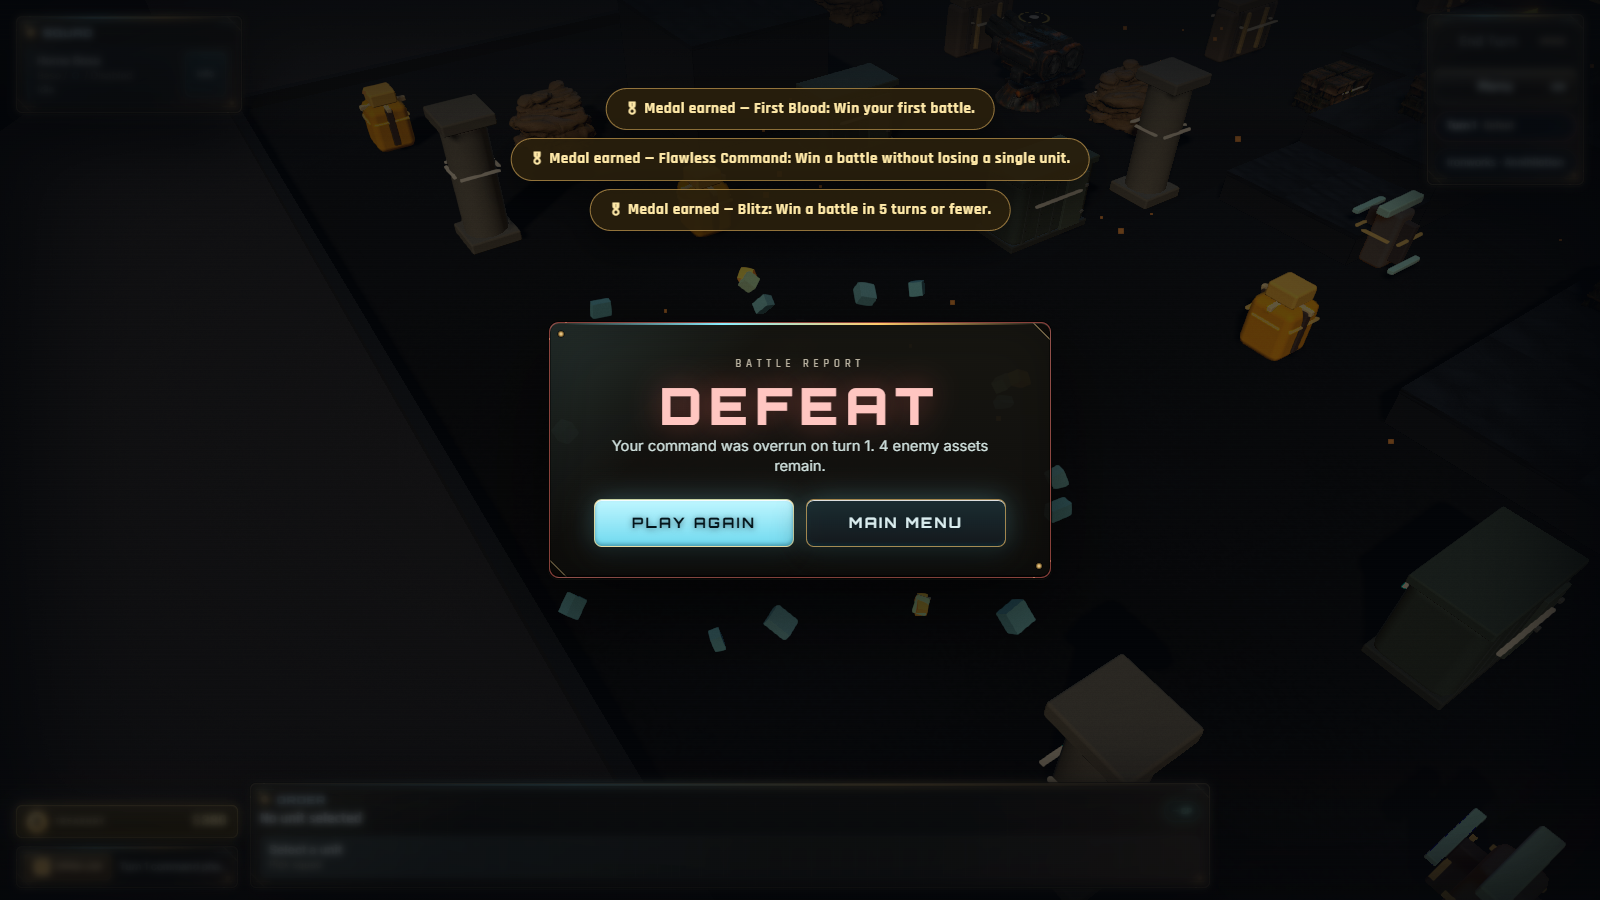
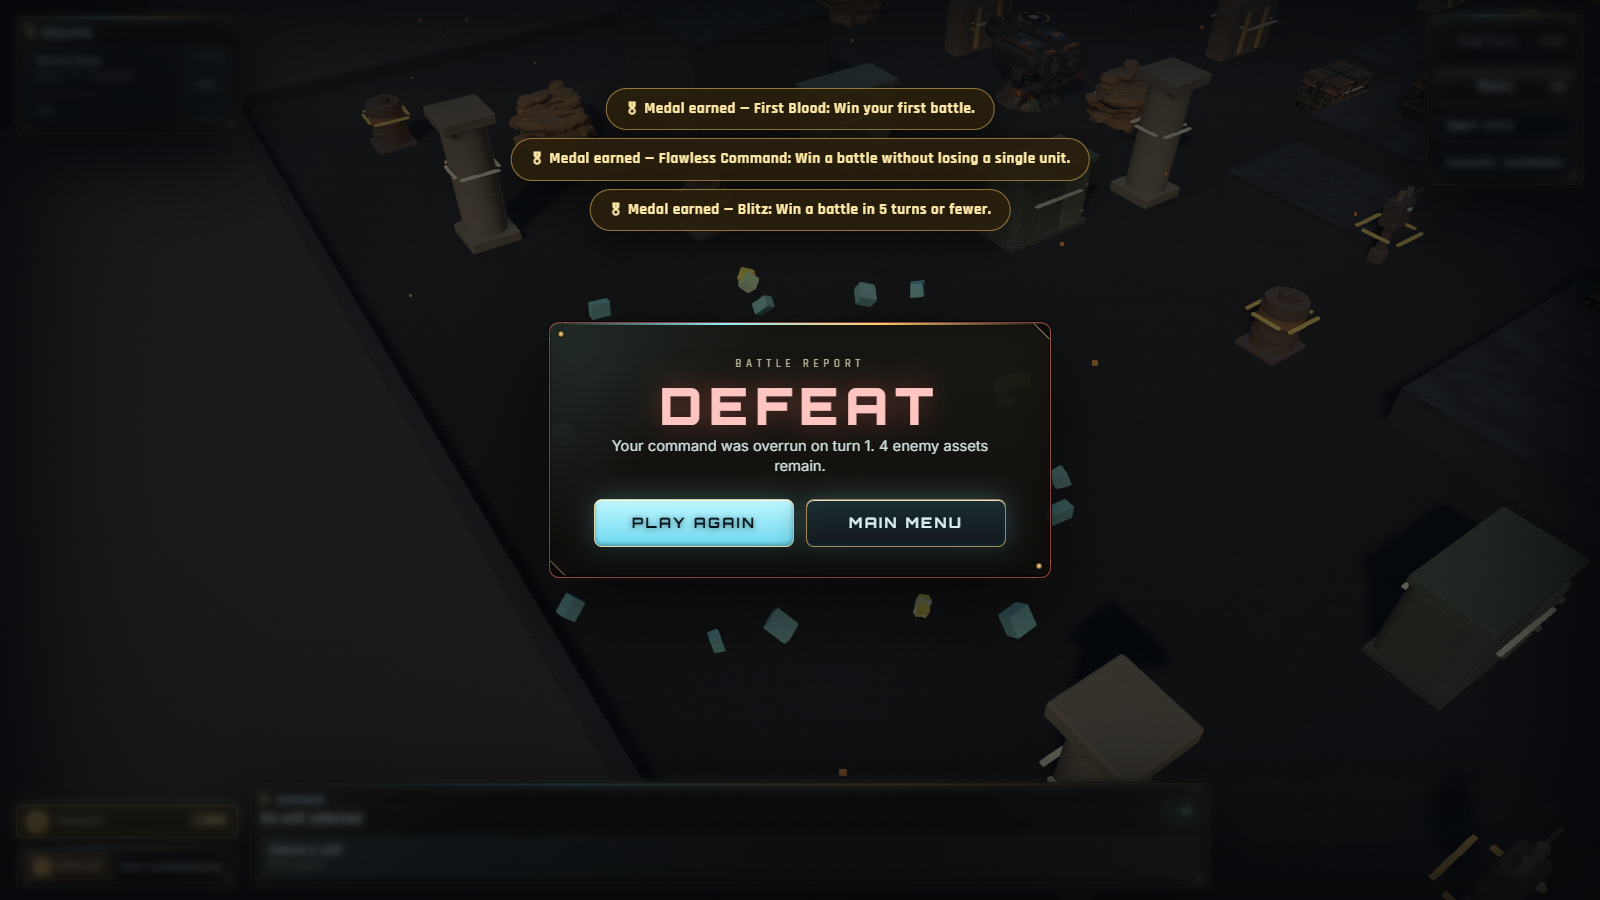
Rebuild the volatile props; fix the draw-call cost of the detailed chassis
The three volatile props were bright saturated blobs -- a fuel cell was two
orange boxes with a cap, glowing. Now that each one does something distinct in
play, each should look like the thing it does and like equipment rather than a
pickup icon: fuel is a ribbed drum in a cradle with a valve head and a hazard
band, ammo is a banded crate pallet with a shell standing proud of the stack, and
the conduit is a junction box on a post with insulators and sagging cable runs.
Common rule -- dark industrial body, saturated colour only as hazard marking,
emissive reserved for the few parts that would genuinely emit.

The portrait sheet now covers structures and scenery too, via debugStructure and
debugCover. It only ever photographed things that walk, so the half of the screen
made of emplacements and props was never actually looked at.

PERF. The detailed chassis cost far more than it looked. Outlines are child
LineSegments and therefore their own draw call, and they were applied
automatically to every mesh of an outlined part -- fine when a torso was one box,
ruinous once it gained two dozen plates, because each plate silently cost a
second draw call as well as its own. Draw calls were up 58% on the stress field
with fps down to 57. Outlining is now opt-in and applied only to the five shapes
that carry a trooper's silhouette; draw calls came back from 1345 to 914 with all
the detail kept, and the gate passes again.
[…]

diff --git a/game/src/render/worldRenderer.ts b/game/src/render/worldRenderer.ts
@@ -1449,8 +1449,8 @@ export class WorldRenderer {
     // Torso: a tapered barrel with a SEPARATE upper chest mass that overhangs it. The overhang is
     // what gives the trooper a shoulder line and a shadow under the chest -- a single cylinder
     // reads as a bottle no matter how it is lit.
-    this.cylinder(rig, entity, "body", 0.24, 0.5, [0, 0.8, 0], bodyColor, [0, 0, 0], { emissive: teamGlow, emissiveIntensity: 0.08, radiusBottom: 0.27 });
-    this.box(rig, entity, "body", [0.5, 0.3, 0.34], [0, 1.03, 0], bodyColor, { metalness: 0.14, bevel: 0.26 });
+    this.cylinder(rig, entity, "body", 0.24, 0.5, [0, 0.8, 0], bodyColor, [0, 0, 0], { emissive: teamGlow, emissiveIntensity: 0.08, radiusBottom: 0.27, outline: true });
+    this.box(rig, entity, "body", [0.5, 0.3, 0.34], [0, 1.03, 0], bodyColor, { metalness: 0.14, bevel: 0.26, outline: true });
     // Angled breastplate over it, with a glowing core seam.
     this.box(rig, entity, "body", [0.42, 0.34, 0.11], [0, 0.99, 0.18], trimColor, { metalness: 0.3, rotation: [-0.16, 0, 0], bevel: 0.24 });
     this.box(rig, entity, "body", [0.12, 0.2, 0.05], [0, 0.98, 0.245], 0x10171a, { emissive: teamGlow, emissiveIntensity: 0.21, rotation: [-0.16, 0, 0] });
@@ -1468,7 +1468,7 @@ export class WorldRenderer {
     }
     // Head: skull, a brow ridge over the visor, and a rear comms block. The brow is the single
     // detail that stops a head reading as a featureless ball.
-    this.sphere(rig, entity, "head", 0.165, [0, 1.37, 0.02], 0xd8d2bd, { scaleY: 0.95 });
+    this.sphere(rig, entity, "head", 0.165, [0, 1.37, 0.02], 0xd8d2bd, { scaleY: 0.95, outline: true });
     this.box(rig, entity, "head", [0.3, 0.07, 0.1], [0, 1.44, 0.145], 0x2b343a, { metalness: 0.26, rotation: [-0.24, 0, 0], bevel: 0.35 });
     this.box(rig, entity, "head", [0.28, 0.085, 0.07], [0, 1.37, 0.17], 0x0c1418, { emissive: teamGlow, emissiveIntensity: 0.23 });
     this.box(rig, entity, "head", [0.14, 0.11, 0.1], [0, 1.36, -0.15], 0x2b343a, { metalness: 0.24, bevel: 0.3 });
@@ -1642,8 +1642,8 @@ export class WorldRenderer {
       this.box(rig, entity, "legs", [0.15, 0.14, 0.16], [side * 0.18, 0.3, 0.03], trimColor, { metalness: 0.28, bevel: 0.3 }).userData.limb = tag;
       this.box(rig, entity, "legs", [0.11, 0.08, 0.12], [side * 0.18, 0.13, 0.06], 0x212b2f, { metalness: 0.2, bevel: 0.3 }).userData.limb = tag;
     }
-    this.cylinder(rig, entity, "legs", 0.095, 0.52, [-0.18, 0.26, 0], 0x162225, [0, 0, 0], { radiusBottom: 0.075 }).userData.limb = "leg-l";
-    this.cylinder(rig, entity, "legs", 0.095, 0.52, [0.18, 0.26, 0], 0x162225, [0, 0, 0], { radiusBottom: 0.075 }).userData.limb = "leg-r";
+    this.cylinder(rig, entity, "legs", 0.095, 0.52, [-0.18, 0.26, 0], 0x162225, [0, 0, 0], { radiusBottom: 0.075, outline: true }).userData.limb = "leg-l";
+    this.cylinder(rig, entity, "legs", 0.095, 0.52, [0.18, 0.26, 0], 0x162225, [0, 0, 0], { radiusBottom: 0.075, outline: true }).userData.limb = "leg-r";
     this.box(rig, entity, "legs", [0.2, 0.11, 0.3], [-0.18, 0.055, 0.07], 0x101516, { metalness: 0.14 }).userData.limb = "leg-l";
     this.box(rig, entity, "legs", [0.2, 0.11, 0.3], [0.18, 0.055, 0.07], 0x101516, { metalness: 0.14 }).userData.limb = "leg-r";
   }
@@ -1714,22 +1714,48 @@ export class WorldRenderer {
     const part = entity.parts[0];
     const volatile = part.role === "volatile";
     if (entity.coverKind === "ammo") {
-      this.box(group, entity, part.id, [0.92, 0.58, 0.72], [0, 0.32, 0], 0x8c6541, { emissive: 0xff9e2b, emissiveIntensity: 0.18 });
-      this.box(group, entity, part.id, [0.72, 0.18, 0.52], [0, 0.72, 0], 0xffca6b, { emissive: 0xff7d26, emissiveIntensity: 0.42 });
-      for (const x of [-0.24, 0.24]) this.cylinder(group, entity, part.id, 0.14, 0.62, [x, 0.52, 0], 0x34312a);
-      for (const z of [-0.32, 0.32]) this.box(group, entity, part.id, [1.02, 0.08, 0.08], [0, 0.66, z], 0xfff0bf, { emissive: 0xffb02e, emissiveIntensity: 0.35 });
+      // A pallet of banded shell crates with one round standing proud of the stack, so it reads as
+      // "munitions" from above rather than as a generic box.
+      this.box(group, entity, part.id, [1.0, 0.12, 0.8], [0, 0.06, 0], 0x4a3f31, { bevel: 0.2 });
+      this.box(group, entity, part.id, [0.9, 0.34, 0.68], [0, 0.29, 0], 0x5c4a33, { bevel: 0.14 });
+      this.box(group, entity, part.id, [0.78, 0.3, 0.6], [0, 0.61, -0.03], 0x67543a, { bevel: 0.14 });
+      // Steel banding across each crate: the small bright accents, not the whole prop.
+      for (const [y, w] of [[0.29, 0.92], [0.61, 0.8]] as const) {
+        this.box(group, entity, part.id, [w, 0.05, 0.06], [0, y, 0.26], 0xb8923f, { metalness: 0.4, bevel: 0.35 });
+      }
+      // A single shell, nose up, standing in the open crate.
+      this.cylinder(group, entity, part.id, 0.09, 0.34, [0.24, 0.9, -0.03], 0x6b6f5a, [0, 0, 0], { metalness: 0.35 });
+      this.cylinder(group, entity, part.id, 0.09, 0.14, [0.24, 1.11, -0.03], 0xb8923f, [0, 0, 0], { metalness: 0.45, radiusBottom: 0.02 });
+      // Hazard chevron on the front face.
+      this.box(group, entity, part.id, [0.34, 0.09, 0.04], [-0.18, 0.62, 0.31], 0xd8a53a, { bevel: 0.3 });
     } else if (entity.coverKind === "conduit") {
-      this.box(group, entity, part.id, [0.48, 1.15, 0.48], [0, 0.58, 0], 0x315764, { emissive: 0x48e9ff, emissiveIntensity: 0.34 });
-      this.box(group, entity, part.id, [1.08, 0.16, 0.24], [0, 1.22, 0], 0x9dfcff, { emissive: 0x48e9ff, emissiveIntensity: 0.68 });
-      this.box(group, entity, part.id, [0.16, 0.82, 0.92], [0, 0.58, 0], 0x152126);
-      this.box(group, entity, part.id, [0.86, 0.08, 0.12], [0, 0.2, 0.52], 0x8df4ff, { emissive: 0x48e9ff, emissiveIntensity: 0.7 });
-      this.box(group, entity, part.id, [0.86, 0.08, 0.12], [0, 0.96, -0.52], 0x8df4ff, { emissive: 0x48e9ff, emissiveIntensity: 0.58 });
+      // A junction box on a post, with an insulator stack and cable runs going off both ways.
+      this.box(group, entity, part.id, [0.28, 0.3, 0.28], [0, 0.14, 0], 0x2b3238, { bevel: 0.22 });
+      this.cylinder(group, entity, part.id, 0.09, 0.68, [0, 0.6, 0], 0x39424a, [0, 0, 0], { metalness: 0.4 });
+      this.box(group, entity, part.id, [0.46, 0.56, 0.34], [0, 1.06, 0], 0x35424c, { metalness: 0.28, bevel: 0.16 });
+      // Ceramic insulators -- the one place a bright material belongs on this prop.
+      for (const x of [-0.13, 0.13]) {
+        this.cylinder(group, entity, part.id, 0.06, 0.18, [x, 1.42, 0], 0xb9b0a0, [0, 0, 0], { metalness: 0.1 });
+      }
+      // Live terminal: small, and the only emissive thing here.
+      this.box(group, entity, part.id, [0.1, 0.06, 0.06], [0, 1.2, 0.19], 0x9dfcff, { emissive: 0x48e9ff, emissiveIntensity: 0.55, bevel: 0.3 });
+      // Cable runs sagging away on each side.
+      for (const side of [-1, 1]) {
+        this.box(group, entity, part.id, [0.5, 0.05, 0.05], [side * 0.36, 1.3, 0], 0x181d21, { bevel: 0.4, rotation: [0, 0, side * 0.22] });
+      }
     } else if (volatile) {
-      this.box(group, entity, part.id, [0.82, 0.98, 0.82], [0, 0.5, 0], 0xffb02e, { emissive: 0xff6b1a, emissiveIntensity: 0.35 });
-      this.box(group, entity, part.id, [0.56, 0.28, 0.56], [0, 1.14, 0], 0xffd06a, { emissive: 0xffb02e, emissiveIntensity: 0.45 });
-      this.box(group, entity, part.id, [0.16, 0.82, 0.9], [0, 0.56, 0], 0x5a3516);
-      this.box(group, entity, part.id, [0.98, 0.1, 0.1], [0, 0.96, 0], 0xfff0bf, { emissive: 0xff7d26, emissiveIntensity: 0.42 });
-      this.box(group, entity, part.id, [0.1, 0.1, 0.98], [0, 0.96, 0], 0xfff0bf, { emissive: 0xff7d26, emissiveIntensity: 0.42 });
+      // Fuel: a ribbed drum in a low cradle with a valve head and a hazard band. Dark body, warm
+      // band -- the previous version was a saturated orange blob that read as a pickup, not a hazard.
+      this.box(group, entity, part.id, [0.86, 0.1, 0.78], [0, 0.05, 0], 0x3b3a33, { bevel: 0.2 });
+      this.cylinder(group, entity, part.id, 0.36, 0.88, [0, 0.54, 0], 0x6d5a33, [0, 0, 0], { metalness: 0.32 });
+      // Rolling hoops: the ribs are what make a cylinder read as a fuel drum at any distance.
+      for (const y of [0.3, 0.56, 0.82]) {
+        this.cylinder(group, entity, part.id, 0.385, 0.06, [0, y, 0], 0x4a4030, [0, 0, 0], { metalness: 0.4 });
+      }
+      // Hazard band + valve assembly on top.
+      this.cylinder(group, entity, part.id, 0.372, 0.15, [0, 0.68, 0], 0xd8952f, [0, 0, 0], { metalness: 0.2 });
+      this.cylinder(group, entity, part.id, 0.16, 0.12, [0, 1.02, 0], 0x4a4436, [0, 0, 0], { metalness: 0.42 });
+      this.box(group, entity, part.id, [0.26, 0.05, 0.05], [0, 1.1, 0], 0x8f8672, { metalness: 0.45, bevel: 0.35 });
     } else if (entity.coverKind === "barricade") {
       this.box(group, entity, part.id, [1.72, 0.62, 0.46], [0, 0.32, 0], 0x9b7045);
       this.box(group, entity, part.id, [1.54, 0.18, 0.56], [0, 0.72, 0], 0xc18a50);
@@ -1875,6 +1901,8 @@ export class WorldRenderer {
       rotation?: [number, number, number];
       /** Chamfer size as a fraction of the smallest dimension. Lower for thin plates. */
       bevel?: number;
+      /** Trace this mesh with a dark edge outline. Costs a draw call; silhouette shapes only. */
+      outline?: boolean;
     } = {}
   ): PartMesh {
     const mesh = new THREE.Mesh(
@@ -1900,10 +1928,10 @@ export class WorldRenderer {
     mesh.userData.basePosition = mesh.position.clone();
     mesh.userData.baseRotation = mesh.rotation.clone();
     mesh.userData.baseScale = mesh.scale.clone();
-    // Outlines only on infantry, and only on the silhouette-critical parts (torso, head,
-    // legs): those are the shapes that must read at tactics distance, and each outline is
-    // a whole extra draw call — trinkets/weapons don't earn one at 0.38 opacity.
-    if (isInfantryKind(entity.kind) && OUTLINED_PARTS.has(partId)) this.outline(mesh);
+    // Outlines are opt-in per mesh (see `outline` in the material options). Each one is a child
+    // LineSegments and therefore a whole extra draw call, so only the few shapes that carry a
+    // trooper's silhouette at tactical distance are worth tracing.
+    if (materialOptions.outline && isInfantryKind(entity.kind) && OUTLINED_PARTS.has(partId)) this.outline(mesh);
     group.add(mesh);
     return mesh;
   }
@@ -1917,7 +1945,7 @@ export class WorldRenderer {
     pos: [number, number, number],
     color: number,
     rotation: [number, number, number] = [0, 0, Math.PI / 2],
-    materialOptions: { metalness?: number; emissive?: number; emissiveIntensity?: number; accent?: boolean; radiusBottom?: number } = {}
+    materialOptions: { metalness?: number; emissive?: number; emissiveIntensity?: number; accent?: boolean; radiusBottom?: number; outline?: boolean } = {}
   ): PartMesh {
     const mesh = new THREE.Mesh(
       new THREE.CylinderGeometry(radius, materialOptions.radiusBottom ?? radius, depth, 14),
@@ -1942,7 +1970,7 @@ export class WorldRenderer {
     mesh.userData.basePosition = mesh.position.clone();
     mesh.userData.baseRotation = mesh.rotation.clone();
     mesh.userData.baseScale = mesh.scale.clone();
-    if (isInfantryKind(entity.kind) && OUTLINED_PARTS.has(partId)) this.outline(mesh);
+    if (materialOptions.outline && isInfantryKind(entity.kind) && OUTLINED_PARTS.has(partId)) this.outline(mesh);
     group.add(mesh);
     return mesh;
   }
@@ -1955,7 +1983,7 @@ export class WorldRenderer {
     radius: number,
     pos: [number, number, number],
     color: number,
-    materialOptions: { metalness?: number; emissive?: number; emissiveIntensity?: number; accent?: boolean; scaleY?: number } = {}
+    materialOptions: { metalness?: number; emissive?: number; emissiveIntensity?: number; accent?: boolean; scaleY?: number; outline?: boolean } = {}
   ): PartMesh {
     const mesh = new THREE.Mesh(
       new THREE.SphereGeometry(radius, 14, 10),
@@ -3760,9 +3788,9 @@ function makeGroundTexture(theme: MapTheme): THREE.CanvasTexture {
     const y = rand() * size;
     const r = 26 + rand() * 96;
     const toward = rand();
-    const tone = ground.clone().lerp(accent, toward * 0.85).multiplyScalar(0.82 + rand() * 0.42);
+    const tone = ground.clone().lerp(accent, toward * 0.95).multiplyScalar(0.62 + rand() * 0.86);
     const grad = ctx.createRadialGradient(x, y, 0, x, y, r);
-    grad.addColorStop(0, css(tone, 0.5));
+    grad.addColorStop(0, css(tone, 0.72));
     grad.addColorStop(1, css(tone, 0));
     ctx.fillStyle = grad;
     ctx.fillRect(x - r, y - r, r * 2, r * 2);
@@ -3780,9 +3808,9 @@ function makeGroundTexture(theme: MapTheme): THREE.CanvasTexture {
     // Soft-edged and faint. Sharp thin rectangles read as sticks lying on the ground; broad,
     // blurred, low-alpha smears read as the ground itself being unevenly weathered.
     const grad = ctx.createLinearGradient(0, -h / 2, 0, h / 2);
-    const shade = ground.clone().multiplyScalar(0.66);
+    const shade = ground.clone().multiplyScalar(0.5);
     grad.addColorStop(0, css(shade, 0));
-    grad.addColorStop(0.5, css(shade, 0.16 + rand() * 0.1));
+    grad.addColorStop(0.5, css(shade, 0.26 + rand() * 0.14));
     grad.addColorStop(1, css(shade, 0));
     ctx.fillStyle = grad;
     ctx.fillRect(-w / 2, -h / 2, w, h);
@@ -3792,7 +3820,7 @@ function makeGroundTexture(theme: MapTheme): THREE.CanvasTexture {
   // Fine grain so the surface does not read as smooth plastic when the camera is close.
   const grain = ctx.getImageData(0, 0, size, size);
   for (let i = 0; i < grain.data.length; i += 4) {
-    const n = (rand() - 0.5) * 26;
+    const n = (rand() - 0.5) * 34;
     grain.data[i] = Math.max(0, Math.min(255, grain.data[i] + n));
     grain.data[i + 1] = Math.max(0, Math.min(255, grain.data[i + 1] + n));
     grain.data[i + 2] = Math.max(0, Math.min(255, grain.data[i + 2] + n));

diff --git a/game/src/game/sim.ts b/game/src/game/sim.ts
@@ -24,6 +24,7 @@ import {
   createScout,
   createSniper,
   createCover,
+  createBase,
   createDroneOp,
   createFlamer,
   createFlak,
@@ -36,6 +37,7 @@ import {
   createStriker,
   createTank,
   createTurret,
+  COVER_PROFILES,
   createExTurret,
   createWall,
   factionLiving,
@@ -51,6 +53,7 @@ import {
   spendCommandPoint,
   vulnerabilityMultiplier,
   type AimMode,
+  type CoverKind,
   type CombatEntity,
   type DamagePart,
   type DamageResult,
@@ -1545,6 +1548,35 @@ export class TacticalSim {
   // These bypass the economy/CP rules on purpose — they are dev tooling, not gameplay.
 
   // Drop a combat unit straight onto the field, ready to act (no cost, no cooldown).
+  /**
+   * Place an emplacement or the base directly, bypassing cost, placement radius and command points.
+   * Debug/capture surface only -- debugSpawn covers troops, and the portrait sheet needs the other
+   * half of what is actually on screen.
+   */
+  debugStructure(kind: DefenseKind | "base", team: Team, position: Vec2): CombatEntity {
+    const id = `${team === "player" ? "p" : "e"}-dbg-${++this.troopSeq}`;
+    const at = clampToArena(position);
+    const entity = kind === "base" ? createBase(id, "Home Base", team, at)
+      : kind === "turret" ? createTurret(id, "Gun Turret", team, at)
+      : kind === "exturret" ? createExTurret(id, "Mortar Turret", team, at)
+      : createWall(id, "Blast Wall", team, at);
+    this.entities.push(entity);
+    this.syncEntityElevation(entity);
+    return entity;
+  }
+
+  /** Place a scenery/cover prop directly. Same purpose as debugStructure. */
+  debugCover(coverKind: CoverKind, position: Vec2, options: { volatile?: boolean } = {}): CombatEntity {
+    const profile = COVER_PROFILES[coverKind];
+    const entity = createCover(`cover-dbg-${++this.troopSeq}`, profile.label, clampToArena(position), {
+      coverKind,
+      volatile: options.volatile ?? profile.volatile,
+    });
+    this.entities.push(entity);
+    this.syncEntityElevation(entity);
+    return entity;
+  }
+
   debugSpawn(kind: TroopKind, team: Team, position: Vec2, options: { elite?: boolean; bossName?: string } = {}): CombatEntity {
     const id = `${team === "player" ? "p" : "e"}-dbg-${++this.troopSeq}`;
     const unit = makeTroop(kind, id, options.bossName ?? `${troopSpec(kind).label} ${this.troopSeq}`, team, clampToArena(position));

diff --git a/game/src/render/stage.ts b/game/src/render/stage.ts
@@ -102,6 +102,9 @@ export class Stage {
     this.renderer.setSize(window.innerWidth, window.innerHeight);
     this.renderer.outputColorSpace = THREE.SRGBColorSpace;
     this.renderer.toneMapping = THREE.ACESFilmicToneMapping;
+// NOTE: renderer.toneMappingExposure is NOT a live lever here. Driving it from 1.06 to 2.6
+    // changed the measured frame luminance by 0.0001 -- the composer chain is what determines the
+    // final image, so brightness is adjusted in the post stack instead (see buildPost).
     this.renderer.toneMappingExposure = 1.06;
     this.renderer.shadowMap.enabled = true;
     this.renderer.shadowMap.type = THREE.PCFSoftShadowMap;
@@ -196,9 +199,14 @@ export class Stage {
       // Low saturation push + firmer contrast: the desert themes collapse into one ochre
       // band if saturation is boosted, and anchored blacks are what keep units readable.
       effects.push(new HueSaturationEffect({ saturation: 0.06 }));
+      // Brightness lift. Two rounds of deliberate darkening -- ground palettes pulled down to widen
+      // their value range, props pushed back behind the units, and volatile scenery that no longer
+      // glows like a pickup -- were each right on their own, and cumulatively left the darkest maps
+      // near black with eight frames failing the flatness gate. This recovers the mid-tones without
+      // undoing any of those decisions.
       // Firmer than the old 0.09. With the fill lights cut back there is real shade in the frame
       // now, and the contrast curve is what stops the mid-tones collapsing back together.
-      effects.push(new BrightnessContrastEffect({ contrast: 0.17 }));
+      effects.push(new BrightnessContrastEffect({ brightness: 0.1, contrast: 0.24 }));
       const noise = new NoiseEffect({ premultiply: true });
       // A light filmic grain. 0.32 read as visible static/dither over the low-frequency sky and on
       // small distant infantry (competing with unit readability); ~0.16 keeps the texture subtle.
